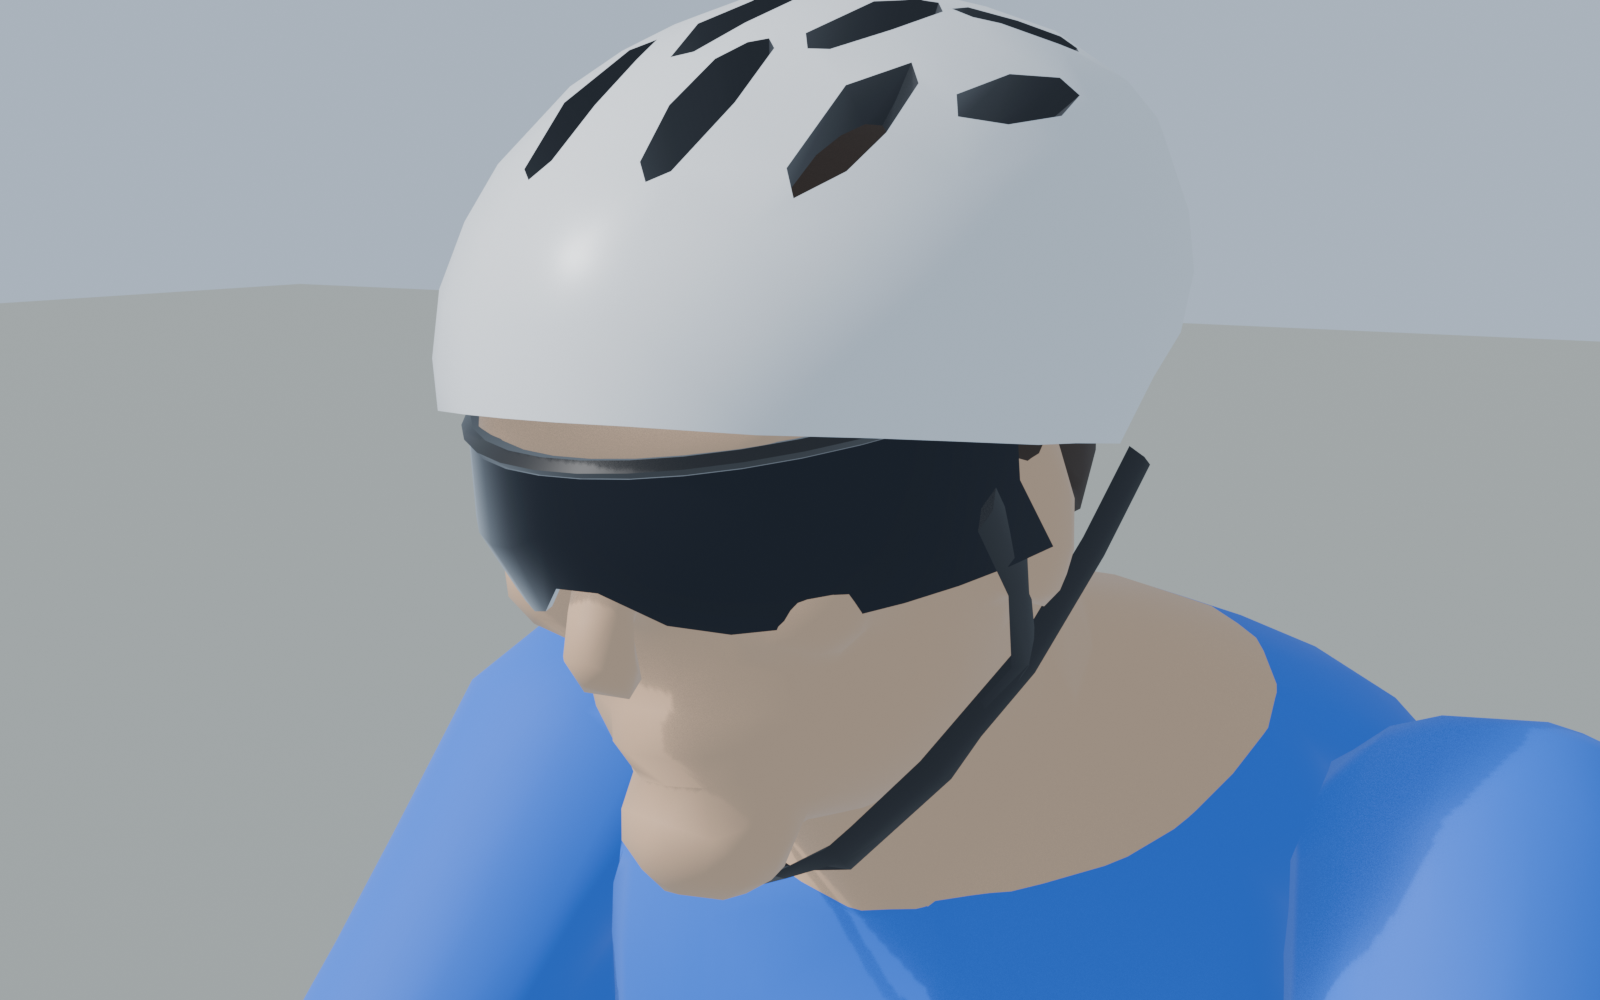
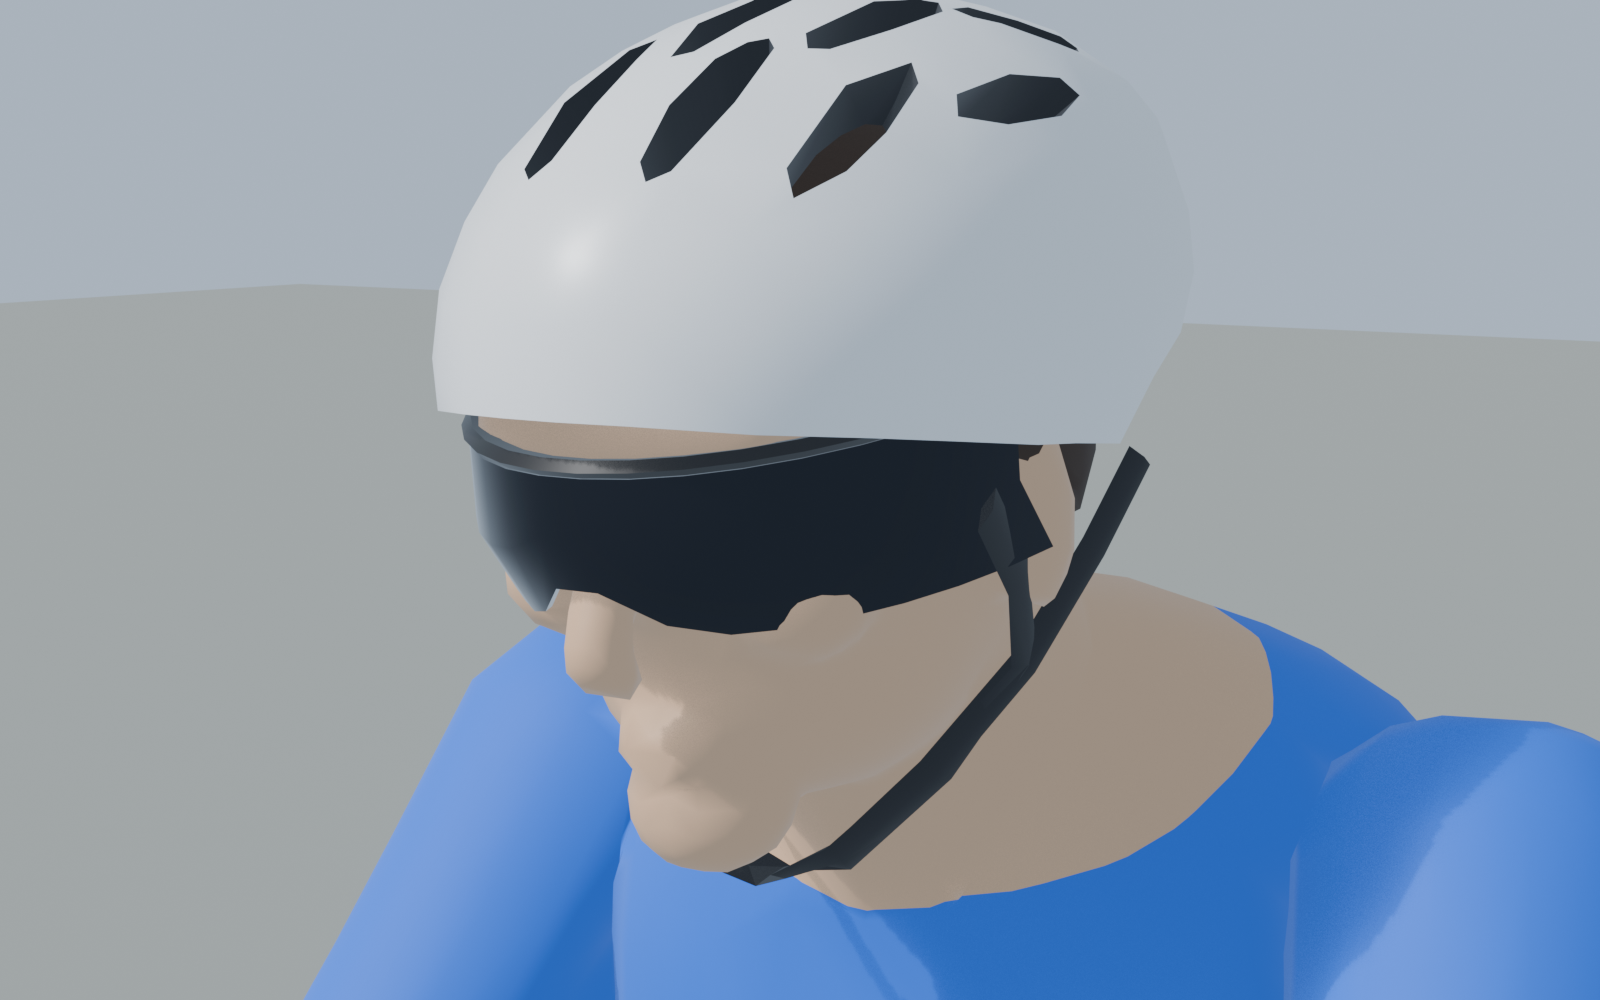
chore(client): contrôle visuel plus fiable, captures rangées dans out/worldcheck

Changed region(s): [[0.375, 0.806, 0.5, 0.899], [0.5312, 0.899, 0.5938, 1.0], [0.375, 0.713, 0.4062, 0.744]]

diff --git a/apps/client/vite.config.ts b/apps/client/vite.config.ts
@@ -11,6 +11,7 @@ const hmr = process.env.AR_HMR !== '0';
  */
 function screenshots(): Plugin {
   const dir = resolve(__dirname, '../../docs/screenshots');
+  const checkDir = resolve(__dirname, '../../out/worldcheck');
   return {
     name: 'ar-screenshots',
     apply: 'serve',
@@ -47,8 +48,10 @@ function screenshots(): Plugin {
             res.end('data URL attendue');
             return;
           }
-          mkdirSync(dir, { recursive: true });
-          const file = resolve(dir, `${name}.${m[1] === 'jpeg' ? 'jpg' : 'png'}`);
+          // Les captures du contrôle visuel vont dans out/ (non versionné).
+          const target = name.startsWith('worldcheck-') ? checkDir : dir;
+          mkdirSync(target, { recursive: true });
+          const file = resolve(target, `${name}.${m[1] === 'jpeg' ? 'jpg' : 'png'}`);
           writeFileSync(file, Buffer.from(m[2] as string, 'base64'));
           res.end(file);
         });

diff --git a/apps/client/src/main.ts b/apps/client/src/main.ts
@@ -489,9 +489,11 @@ async function startRide(scene: Scene3D, s: Settings, input: InputSource, extras
     void (async () => {
       for (let d = 0; d < track.length; d += 500) {
         ride.state.distM = d;
+        rig.setMode('chase'); // recale la caméra sans lissage après le saut
         advance(0.2);
-        await new Promise((r) => setTimeout(r, 2500));
-        advance(0.2);
+        // Laisse le temps aux tuiles autour du nouveau point de se charger.
+        await new Promise((r) => setTimeout(r, 6000));
+        advance(1);
         await shot(`worldcheck-${track.route.id}-${String(Math.round(d)).padStart(5, '0')}`);
       }
       hud.toast('Contrôle visuel terminé : docs/screenshots/worldcheck-*');

diff --git a/tools/blender/build_cyclist.py b/tools/blender/build_cyclist.py
@@ -550,8 +550,8 @@ def body_primitives(r):
     H = r.H
     hx = (r.xh, r.uh, r.fh)
     add(ellipsoid(H(0, 0.0, -0.005), hx, (0.077, 0.098, 0.102), 24, 14), 'head', [(1.0, 'head')])
-    add(ellipsoid(H(0, -0.06, 0.016), hx, (0.06, 0.056, 0.068), 20, 12), 'head', [(1.0, 'head')])
-    add(ellipsoid(H(0, -0.106, 0.07), hx, (0.025, 0.02, 0.022), 12, 8), 'head', [(1.0, 'head')])
+    add(ellipsoid(H(0, -0.056, 0.016), hx, (0.058, 0.052, 0.066), 20, 12), 'head', [(1.0, 'head')])
+    add(ellipsoid(H(0, -0.1, 0.068), hx, (0.024, 0.018, 0.02), 12, 8), 'head', [(1.0, 'head')])
     add(ellipsoid(H(0, 0.022, 0.084), hx, (0.058, 0.014, 0.02), 16, 8), 'head', [(1.0, 'head')])
     add(ellipsoid(H(0, -0.076, 0.082), hx, (0.02, 0.007, 0.009), 12, 8), 'head', [(1.0, 'head')])
     for s in (1, -1):
@@ -824,12 +824,19 @@ def finalize_body(r, src, name, target_tris, prims):
     # (Blender : poids faible = effondrement coûteux ; poids nul = jamais décimé.)
     vg = ob.vertex_groups.new(name='protect')
     for i, rg in enumerate(reg0):
-        w = 0.5 if rg == 'head' else 0.7 if rg.startswith('hand') else 1.0
+        w = 1.0
+        if rg == 'head':
+            q = vc0[i] - r.Sc
+            up, fw = np.dot(q, r.uh), np.dot(q, r.fh)
+            # Calotte cachée par le casque : décimée librement ; visage : préservé.
+            w = 1.0 if up > 0.035 else 0.3 if fw > 0.0 else 0.6
+        elif rg.startswith('hand'):
+            w = 0.7
         vg.add([i], w, 'REPLACE')
     decimate_to(ob, target_tris, 'protect', PROTECT_FACTOR)
     vc1 = to_client_arr(np.array([v.co[:] for v in ob.data.vertices]))
     reg1, _ = label_vertices(vc1, prims)
-    print('DEBUG head verts', name, int((reg0 == 'head').sum()), '->', int((reg1 == 'head').sum()), 'total', len(vc1))
+    print('INFO sommets tête', name, int((reg1 == 'head').sum()), '/', len(vc1))
     me = ob.data
     # Coupes nettes aux ourlets (maillot, cuissard, manches, chaussettes, bande d'accent, col).
     bm = bmesh.new()
@@ -891,7 +898,6 @@ def finalize_body(r, src, name, target_tris, prims):
     me.vertices.foreach_get('co', co)
     co = co.reshape(-1, 3) + nn.reshape(-1, 3) * amt[:, None]
     k.data.foreach_set('co', co.ravel())
-    print('DEBUG smooth', name, sum(p.use_smooth for p in me.polygons), len(me.polygons))
     return ob
 
 
@@ -1288,8 +1294,7 @@ def build_wheel(name, axle, front, lod=0):
     tire = [(0.3225 + 0.0125 * math.cos(a), 0.0125 * math.sin(a)) for a in np.linspace(0, 2 * math.pi, 7)[:-1]]
     v, f = lathe(tire, n)
     mb.add(v, f, 'tire')
-    rim = [(0.312, 0.0125), (0.296, 0.0142), (0.278, 0.0125), (0.266, 0.006), (0.266, -0.006), (0.278, -0.0125),
-           (0.296, -0.0142), (0.312, -0.0125)]
+    rim = [(0.312, 0.0125), (0.29, 0.0142), (0.268, 0.007), (0.268, -0.007), (0.29, -0.0142), (0.312, -0.0125)]
     if lod:
         rim = rim[::2]
     v, f = lathe(rim, n)
@@ -1309,7 +1314,7 @@ def build_wheel(name, axle, front, lod=0):
             mb.add(v, f, 'chrome')
         # Disque de frein (gauche) et cassette (droite, roue arrière).
         rr = 0.08 if front else 0.07
-        disc = [(0.05, 0.051), (rr, 0.051), (rr, 0.049), (0.05, 0.049)]
+        disc = [(0.05, 0.05), (rr, 0.051), (rr, 0.049)]
         v, f = lathe(disc, 24)
         mb.add(v, f, 'chrome')
         if not front:
@@ -1319,7 +1324,7 @@ def build_wheel(name, axle, front, lod=0):
                 x = -0.034 - i * 0.0075
                 cas += [(rc, x), (rc, x - 0.004)]
             cas = [(0.012, -0.03)] + cas + [(0.012, cas[-1][1])]
-            v, f = lathe(cas, 20, closed=True)
+            v, f = lathe(cas, 16, closed=True)
             mb.add(v, f, 'chrome')
     # Coordonnées locales (origine = axe) → objet placé à l'axe.
     ob = mb.build(name)
@@ -1358,7 +1363,7 @@ def build_crankset(lod=0):
     else:
         v, f = lathe([(0.086, -0.043), (0.103, -0.043), (0.103, -0.047), (0.086, -0.047)], n)
         mb.add(v, f, 'chrome')
-    v, f = lathe([(0.068, -0.037), (0.08, -0.037), (0.08, -0.04), (0.068, -0.04)], 24 if lod == 0 else 12)
+    v, f = lathe([(0.068, -0.037), (0.08, -0.037), (0.08, -0.04), (0.068, -0.04)], 16 if lod == 0 else 10)
     mb.add(v, f, 'components')
     # Araignée.
     for k in range(4):
@@ -1401,7 +1406,7 @@ def build_pedal(tag, lod=0):
 
 def build_bike(lod=0):
     g = bike_geometry()
-    frame = build_frame(g, 0.0025 if lod == 0 else 0.004, 1500 if lod == 0 else 420)
+    frame = build_frame(g, 0.0025 if lod == 0 else 0.004, 1400 if lod == 0 else 420)
     parts = build_bike_parts(g, lod)
     vs, fs, ms = mesh_arrays(frame)
     mb = MB()
